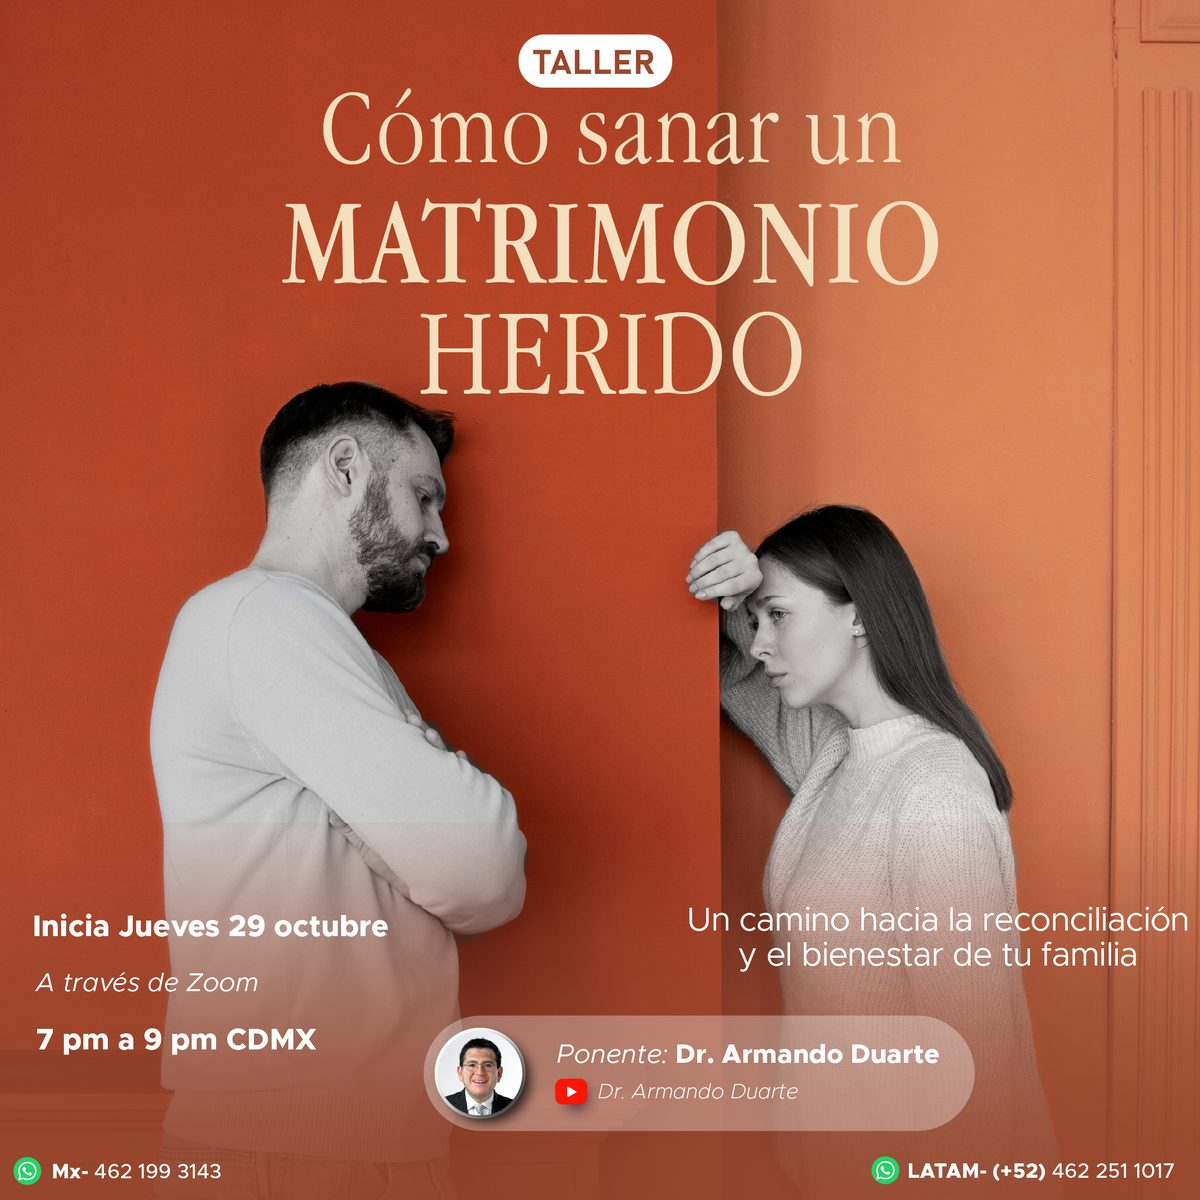
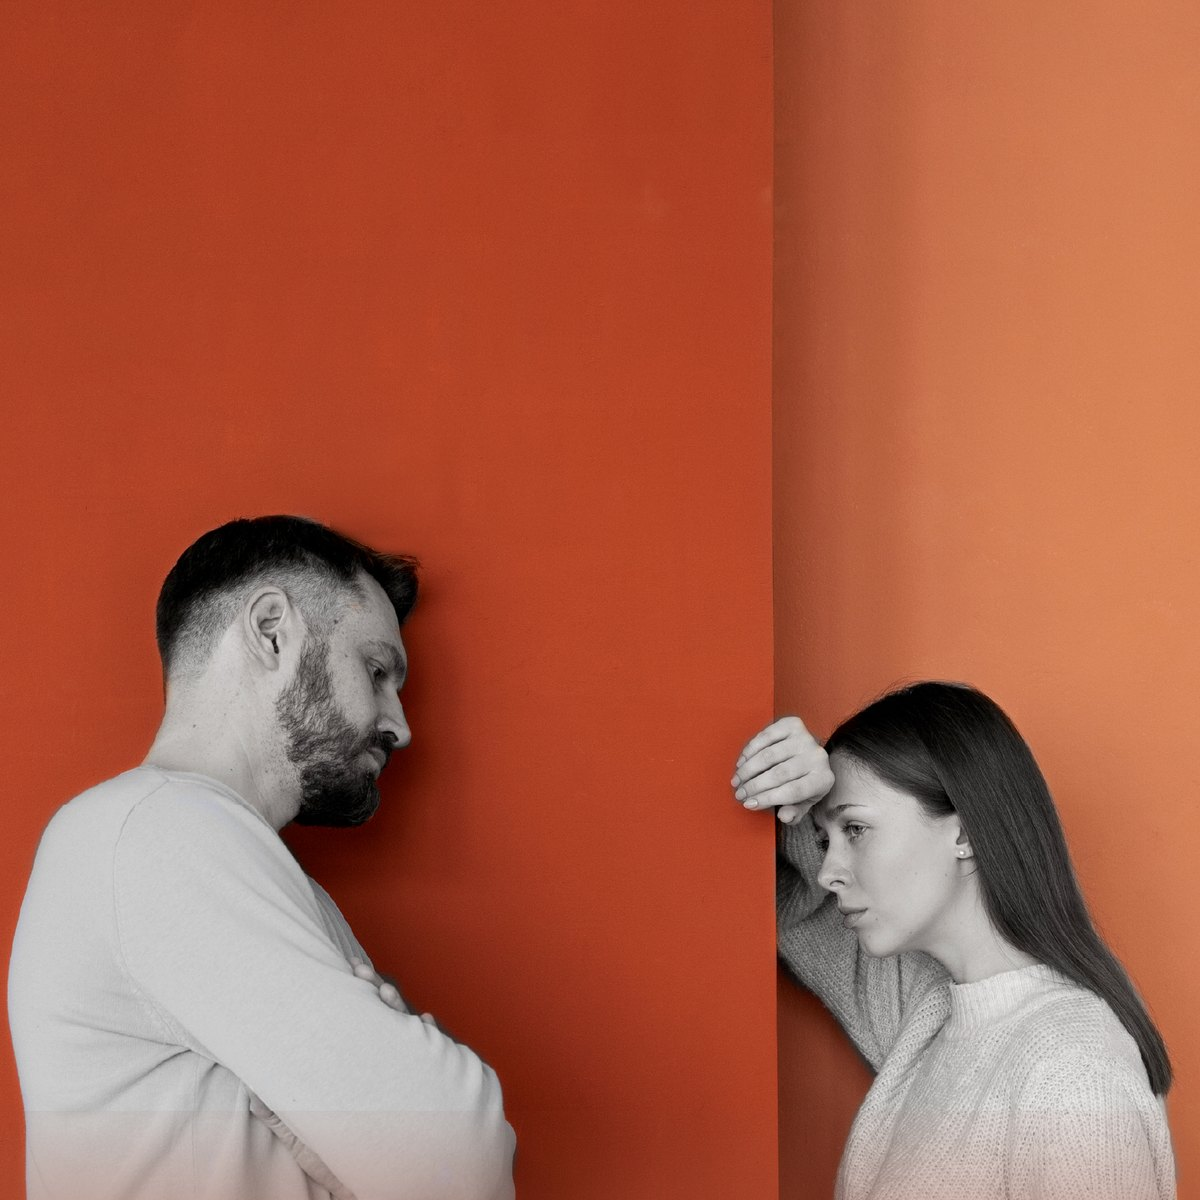
feat(web): /matrimonios, «El dolor…» en dos filas espejo y la miniatura v3 (#39)
#dolor: la misma rejilla y la misma foto 3:2 en las dos filas. Abajo,
dolor-hijo-mirando a la derecha (sale dolor-hijo, la vertical). En el teléfono
va primero la foto. Las dos og-matrimonios-* son las v3 del insumo (la foto del
póster sin texto). Capturas actualizadas por la orden #39: solo matrimonios.

diff --git a/apps/web/src/web/matrimonios/Dolor.tsx b/apps/web/src/web/matrimonios/Dolor.tsx
@@ -3,12 +3,20 @@ import { Seccion } from '../comun/Seccion';
 
 /**
  * «El dolor de un matrimonio herido no tiene por qué ser el final» (orden
- * #38, 4): dos filas de foto y texto, alternadas, con el molde de «Por qué» de
- * `/merida` (figura a un lado, el bloque de texto entero al otro).
+ * #38, 4): dos filas de foto y texto, con el molde de «Por qué» de `/merida`
+ * (figura a un lado, el bloque de texto entero al otro).
+ *
+ * ── Desde la #39, dos filas espejo ───────────────────────────────────────
+ * Dirección: «los textos y las fotos están bien, la organización no». La fila
+ * de abajo tenía una foto vertical chica pegada a la derecha y un hueco en el
+ * medio. Ahora las dos filas son la misma rejilla con la misma foto 3:2:
  *
  *   · arriba, `dolor-llanto` a la izquierda y el título con el primer párrafo;
- *   · abajo, el párrafo de los hijos y «Tu pareja no es el rival…» a la
- *     izquierda, y `dolor-hijo` a la derecha.
+ *   · abajo, su espejo: los dos párrafos a la izquierda y `dolor-hijo-mirando`
+ *     (3.jpg de Armando, 3:2) a la derecha. `dolor-hijo`, la vertical, salió.
+ *
+ * El texto va centrado en vertical contra su foto (`grid-2 centro`). En el
+ * teléfono, en las dos filas va primero la foto (`index.css`).
  *
  * La orden dice «los dos primeros párrafos» arriba y «el párrafo de los hijos y
  * “Tu pareja…”» abajo, pero el `.docx` trae **tres** párrafos y el de los hijos
@@ -35,15 +43,15 @@ export function Dolor() {
         </div>
       </div>
 
-      <div className="grid-2 centro dolor__fila dolor__fila--alternada">
+      <div className="grid-2 centro dolor__fila dolor__fila--espejo">
         <div>
           <p className="body reveal">{t('matrimonios.dolor.hijos')}<b>{t('matrimonios.dolor.hijosFuerte')}</b></p>
           <p className="body reveal" data-d="1">{t('matrimonios.dolor.rival')}</p>
         </div>
-        <figure className="foto-tarjeta dolor__foto dolor__foto--vertical reveal">
+        <figure className="foto-tarjeta dolor__foto reveal">
           <picture>
-            <source type="image/webp" srcSet="img/fotos/matrimonios/dolor-hijo-900.webp 900w, img/fotos/matrimonios/dolor-hijo-1600.webp 1600w" sizes="(max-width:900px) 92vw, 480px" />
-            <img src="img/fotos/matrimonios/dolor-hijo-900.webp" width={900} height={1350} alt={t('matrimonios.dolor.hijoAlt')} loading="lazy" />
+            <source type="image/webp" srcSet="img/fotos/matrimonios/dolor-hijo-mirando-900.webp 900w, img/fotos/matrimonios/dolor-hijo-mirando-1600.webp 1600w" sizes="(max-width:900px) 92vw, 620px" />
+            <img src="img/fotos/matrimonios/dolor-hijo-mirando-900.webp" width={900} height={600} alt={t('matrimonios.dolor.hijoAlt')} loading="lazy" />
           </picture>
         </figure>
       </div>

diff --git a/apps/web/src/index.css b/apps/web/src/index.css
@@ -1133,11 +1133,10 @@ a,button{-webkit-tap-highlight-color:transparent}
 
 /* ── «El dolor de un matrimonio herido…» · dos filas alternadas ──────── */
 .dolor__fila+.dolor__fila{margin-top:var(--s7)}
-/* La de arriba es apaisada (`dolor-llanto`, 3:2) y la de abajo vertical
-   (`dolor-hijo`), recortada al 4:5 de las tarjetas de la casa. */
+/* #39: dos filas espejo, la misma rejilla y la misma foto 3:2 (`dolor-llanto`
+   arriba a la izquierda, `dolor-hijo-mirando` abajo a la derecha), cada una
+   del ancho de su columna: el borde exterior de la foto es el de la rejilla. */
 .dolor__foto img{aspect-ratio:3/2}
-.dolor__foto--vertical{max-width:340px;justify-self:end}
-.dolor__foto--vertical img{aspect-ratio:4/5}
 #dolor .cita{max-width:52ch}
 /* El título es largo para su columna, y `balance` (el de la casa, #16 B) lo
    reparte en cuatro renglones parejos dejando «matrimonio» solo en el segundo,
@@ -1214,7 +1213,8 @@ a,button{-webkit-tap-highlight-color:transparent}
 }
 @media (max-width:900px){
   .tres--cuatro{grid-template-columns:1fr}
-  .dolor__foto--vertical{justify-self:auto;max-width:none}
+  /* #39: en el teléfono, en las dos filas, primero la foto. */
+  .dolor__fila--espejo .dolor__foto{order:-1}
   .ahora__segunda,.ahora__segunda-accion{grid-column:auto}
   .ahora__segunda{margin-top:var(--s3)}
 }

diff --git a/docs/informes/39/LEEME.md b/docs/informes/39/LEEME.md
@@ -1,0 +1,23 @@
+# Web · Orden Códice #39: `/matrimonios`, «El dolor…» en espejo y la miniatura v3
+
+Rama `web/39-matrimonios-dolor-y-miniatura`, desde `main` (`c984ed7`). Toca `apps/web` y una clave de `web.json` (el alt de la foto nueva).
+
+**Qué se hizo**
+- **`#dolor` en dos filas espejo.** Las dos filas usan la misma rejilla y la misma foto 3:2. La fila 1 no cambia. La fila 2 lleva los dos párrafos a la izquierda y `dolor-hijo-mirando` a la derecha.
+  - Medido a 1440: las dos fotos dan **608×405** y cada una toca el borde de la rejilla (x 72 y 1368).
+  - El texto va centrado en vertical contra su foto, sin línea entre filas, y la cita queda alineada a la rejilla.
+  - En el teléfono, las dos filas muestran primero la foto.
+  - `dolor-hijo` (la vertical) salió de la página y de `public/`; queda de reserva en los insumos.
+- **La miniatura v3**: los dos `og-matrimonios-*.jpg` del insumo, con los mismos nombres. La `?v=` cambió sola: 630 `f5c2791f` → `20296c8d`, 1200 `1f613b29` → `3d37800f`. El alt no cambió.
+
+**Verificación**
+- **Gate verde:** 828 tests, 65 en Chromium, 0 saltados.
+- **Huellas:** 42 imágenes en `/matrimonios`, las tres nuevas incluidas.
+- **`check:altura`:** `#dolor` mide 1,45 pantallas a 1440×900 (había dado 1,48), así que **no hizo falta achicar las fotos**. A 1920 mide 1,31.
+- **`check:renglones`:** sin huérfanos a los cuatro anchos.
+- **Fidelidad: capturas actualizadas por la orden #39.** Solo cambia `matrimonios`: las imágenes a 1440/900/390 y las dos `?v=` en la cabeza. El texto visible no cambia.
+- Capturas en esta carpeta: `dolor-1440.jpg` y `dolor-390.jpg`. Las genera `apps/web/check/capturas-39.mjs`, que además mide las dos fotos.
+
+**Aparte, en un commit propio:** el PR #60 se mergeó con `check:tokens` en rojo. Mi script `apps/familia/check/molde-37-pr1.mjs` escribía a mano cuatro hex del `design.json`; corrí ese guardián antes de escribir el script y no después. Ahora el script lee los valores del `design.json`. `check:tokens` vuelve al verde y el script sigue pasando.
+
+**Para mirar:** en `og-matrimonios-1200x630.jpg` (el del insumo, sin tocar) hay una franja horizontal un poco más clara cerca del borde de abajo, a la altura de los suéteres (y≈565). Parece una costura del retoque. Vale revisarla antes de verificar con Facebook y WhatsApp.

diff --git a/apps/web/public/img/fotos/LEEME.md b/apps/web/public/img/fotos/LEEME.md
@@ -114,7 +114,7 @@ la página usa, sin JPG de respaldo: WebP lo entiende todo navegador desde 2020.
 |---|---|---|
 | `dolor-cama-{2400,1600,900}` | fondo de «¿Hace cuánto tiempo dejaron de mirarse con ilusión?» | `5.jpg`, de Armando (con su autorización) |
 | `dolor-llanto-{1600,900}` | «El dolor de un matrimonio herido…», primer bloque | `2.jpg`, de Armando |
-| `dolor-hijo-{1600,900}` | «El dolor…», el párrafo de los hijos | `4.jpg`, de Armando |
+| `dolor-hijo-mirando-{2400,1600,900}` | «El dolor…», la segunda fila, espejo de la primera (#39; reemplaza a `dolor-hijo`, la vertical, que quedó de reserva en los insumos) | `3.jpg`, de Armando |
 | `giro-manos-{1600,900}` | «¡Todo problema tiene solución!» (B/N) | Pexels · joyboy |
 | `esperanza-manos-anillo-{1600,900}` | «Frases poderosas…», 1 | Pexels · monika |
 | `esperanza-familia-{1600,900}` | «Frases poderosas…», 2 | Pexels · danikprihodko 19510859 |
